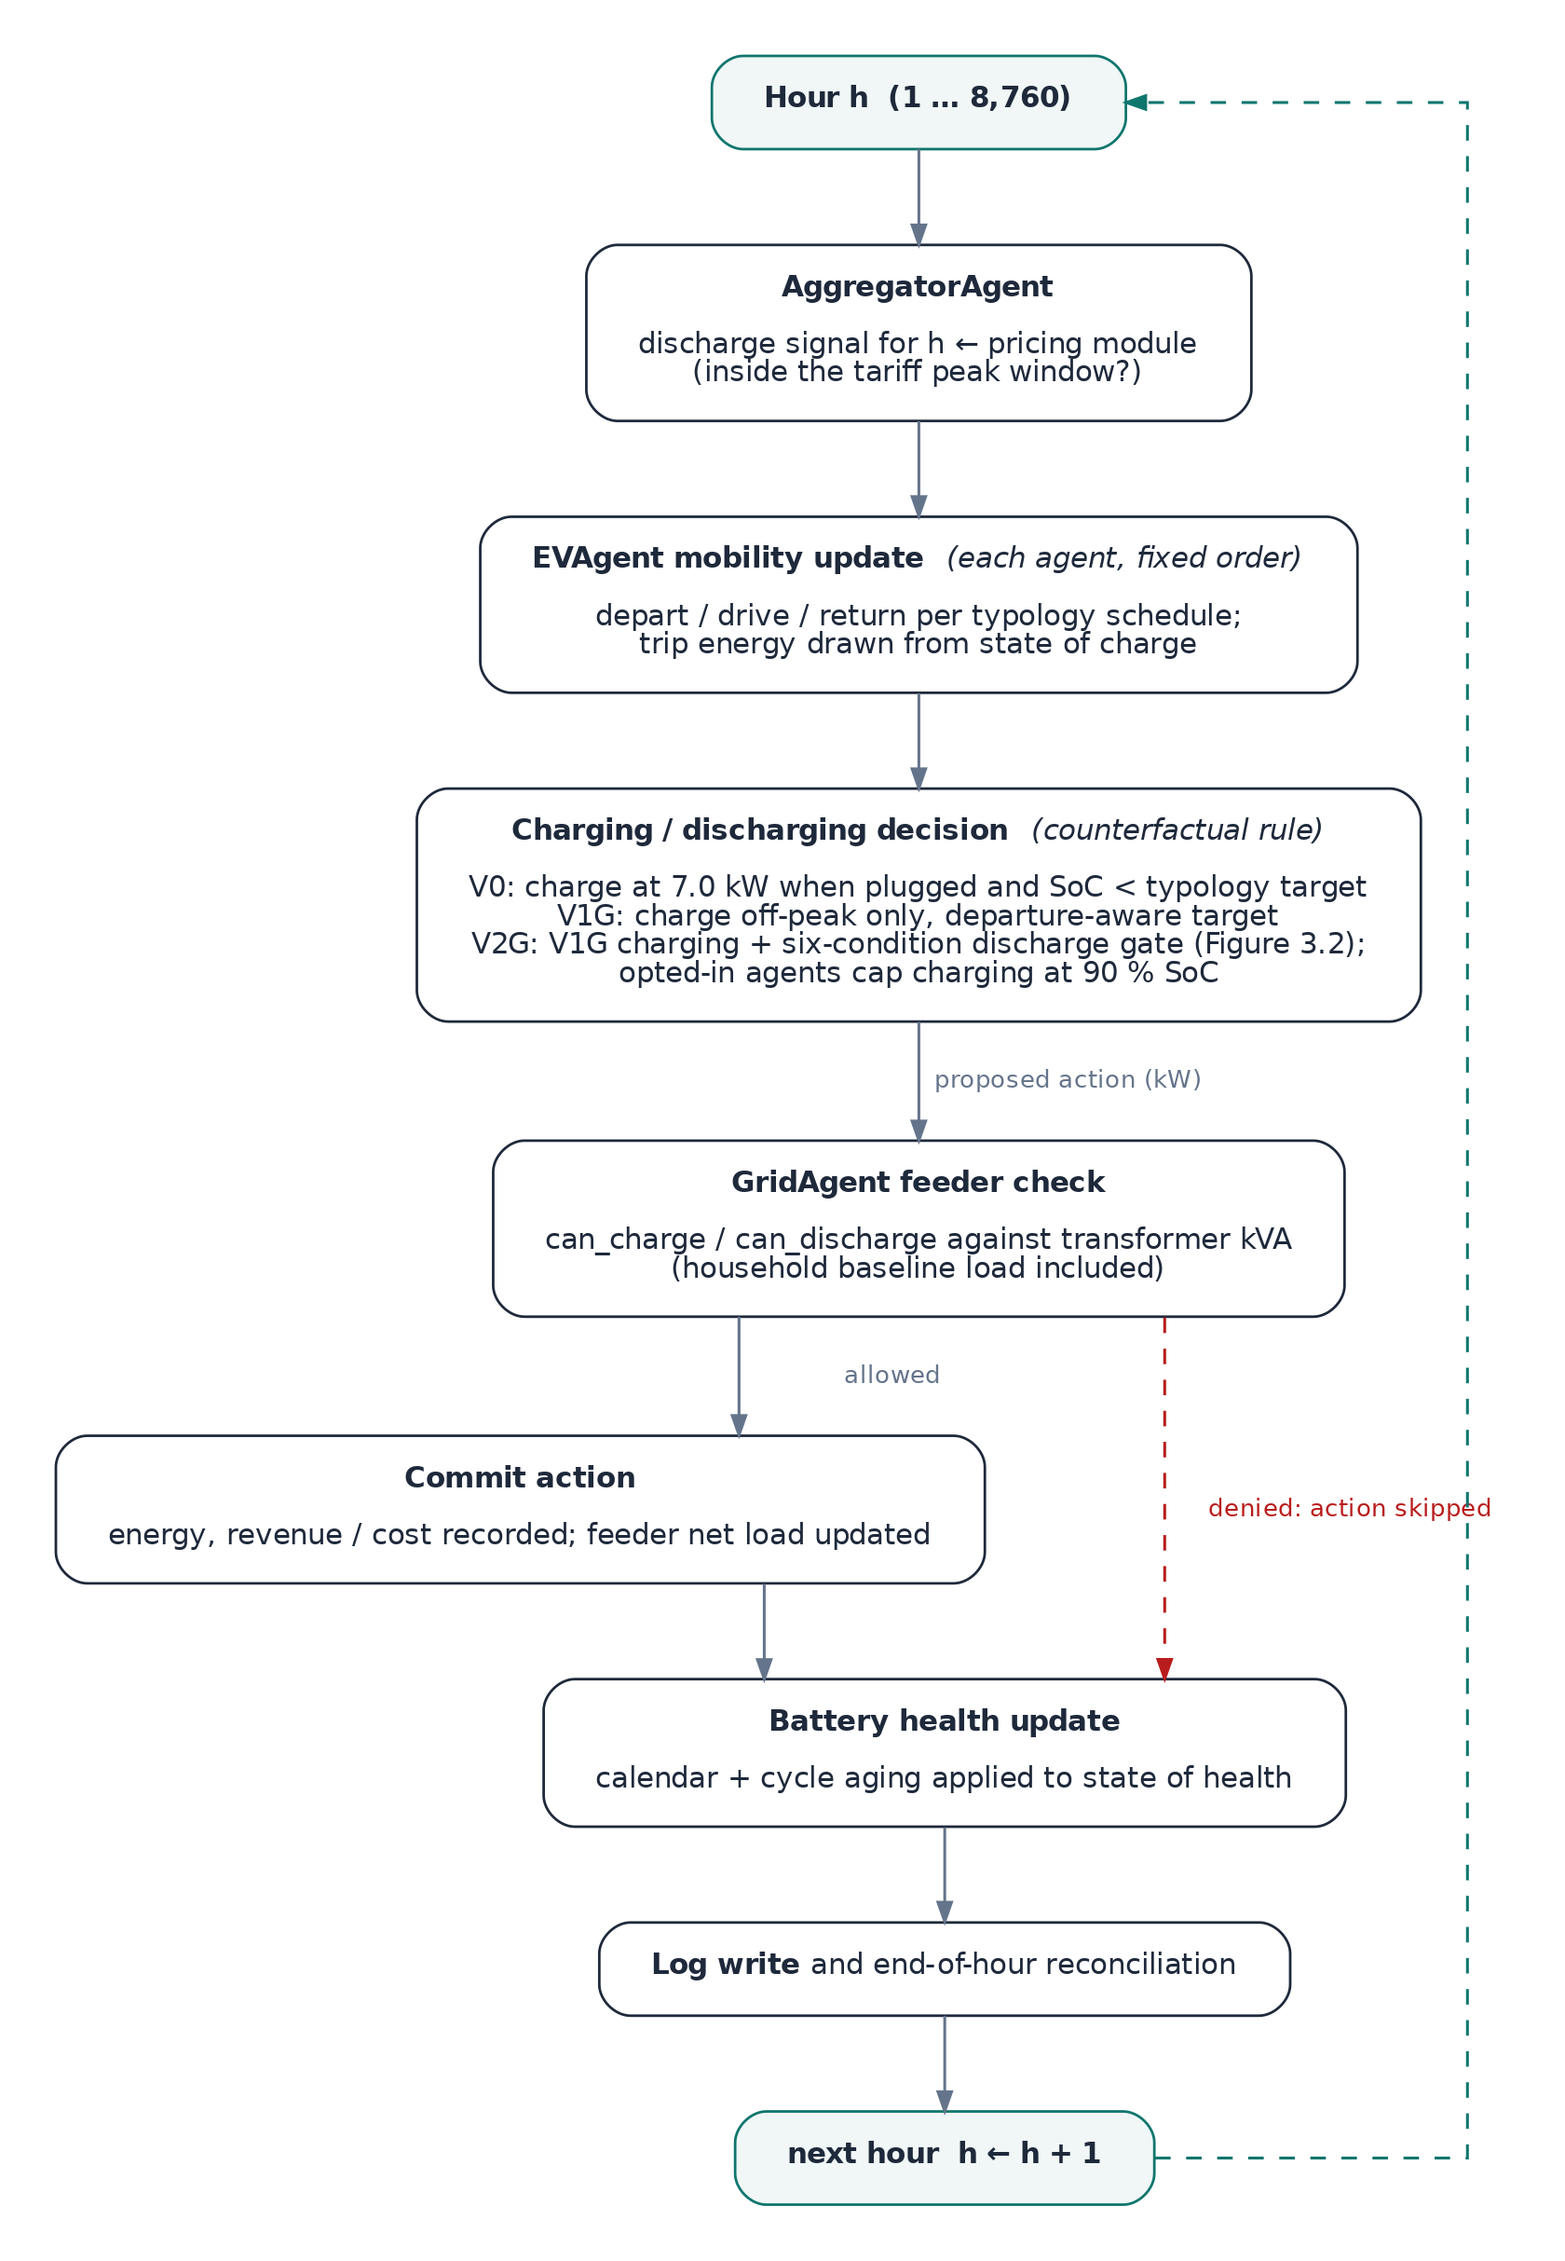
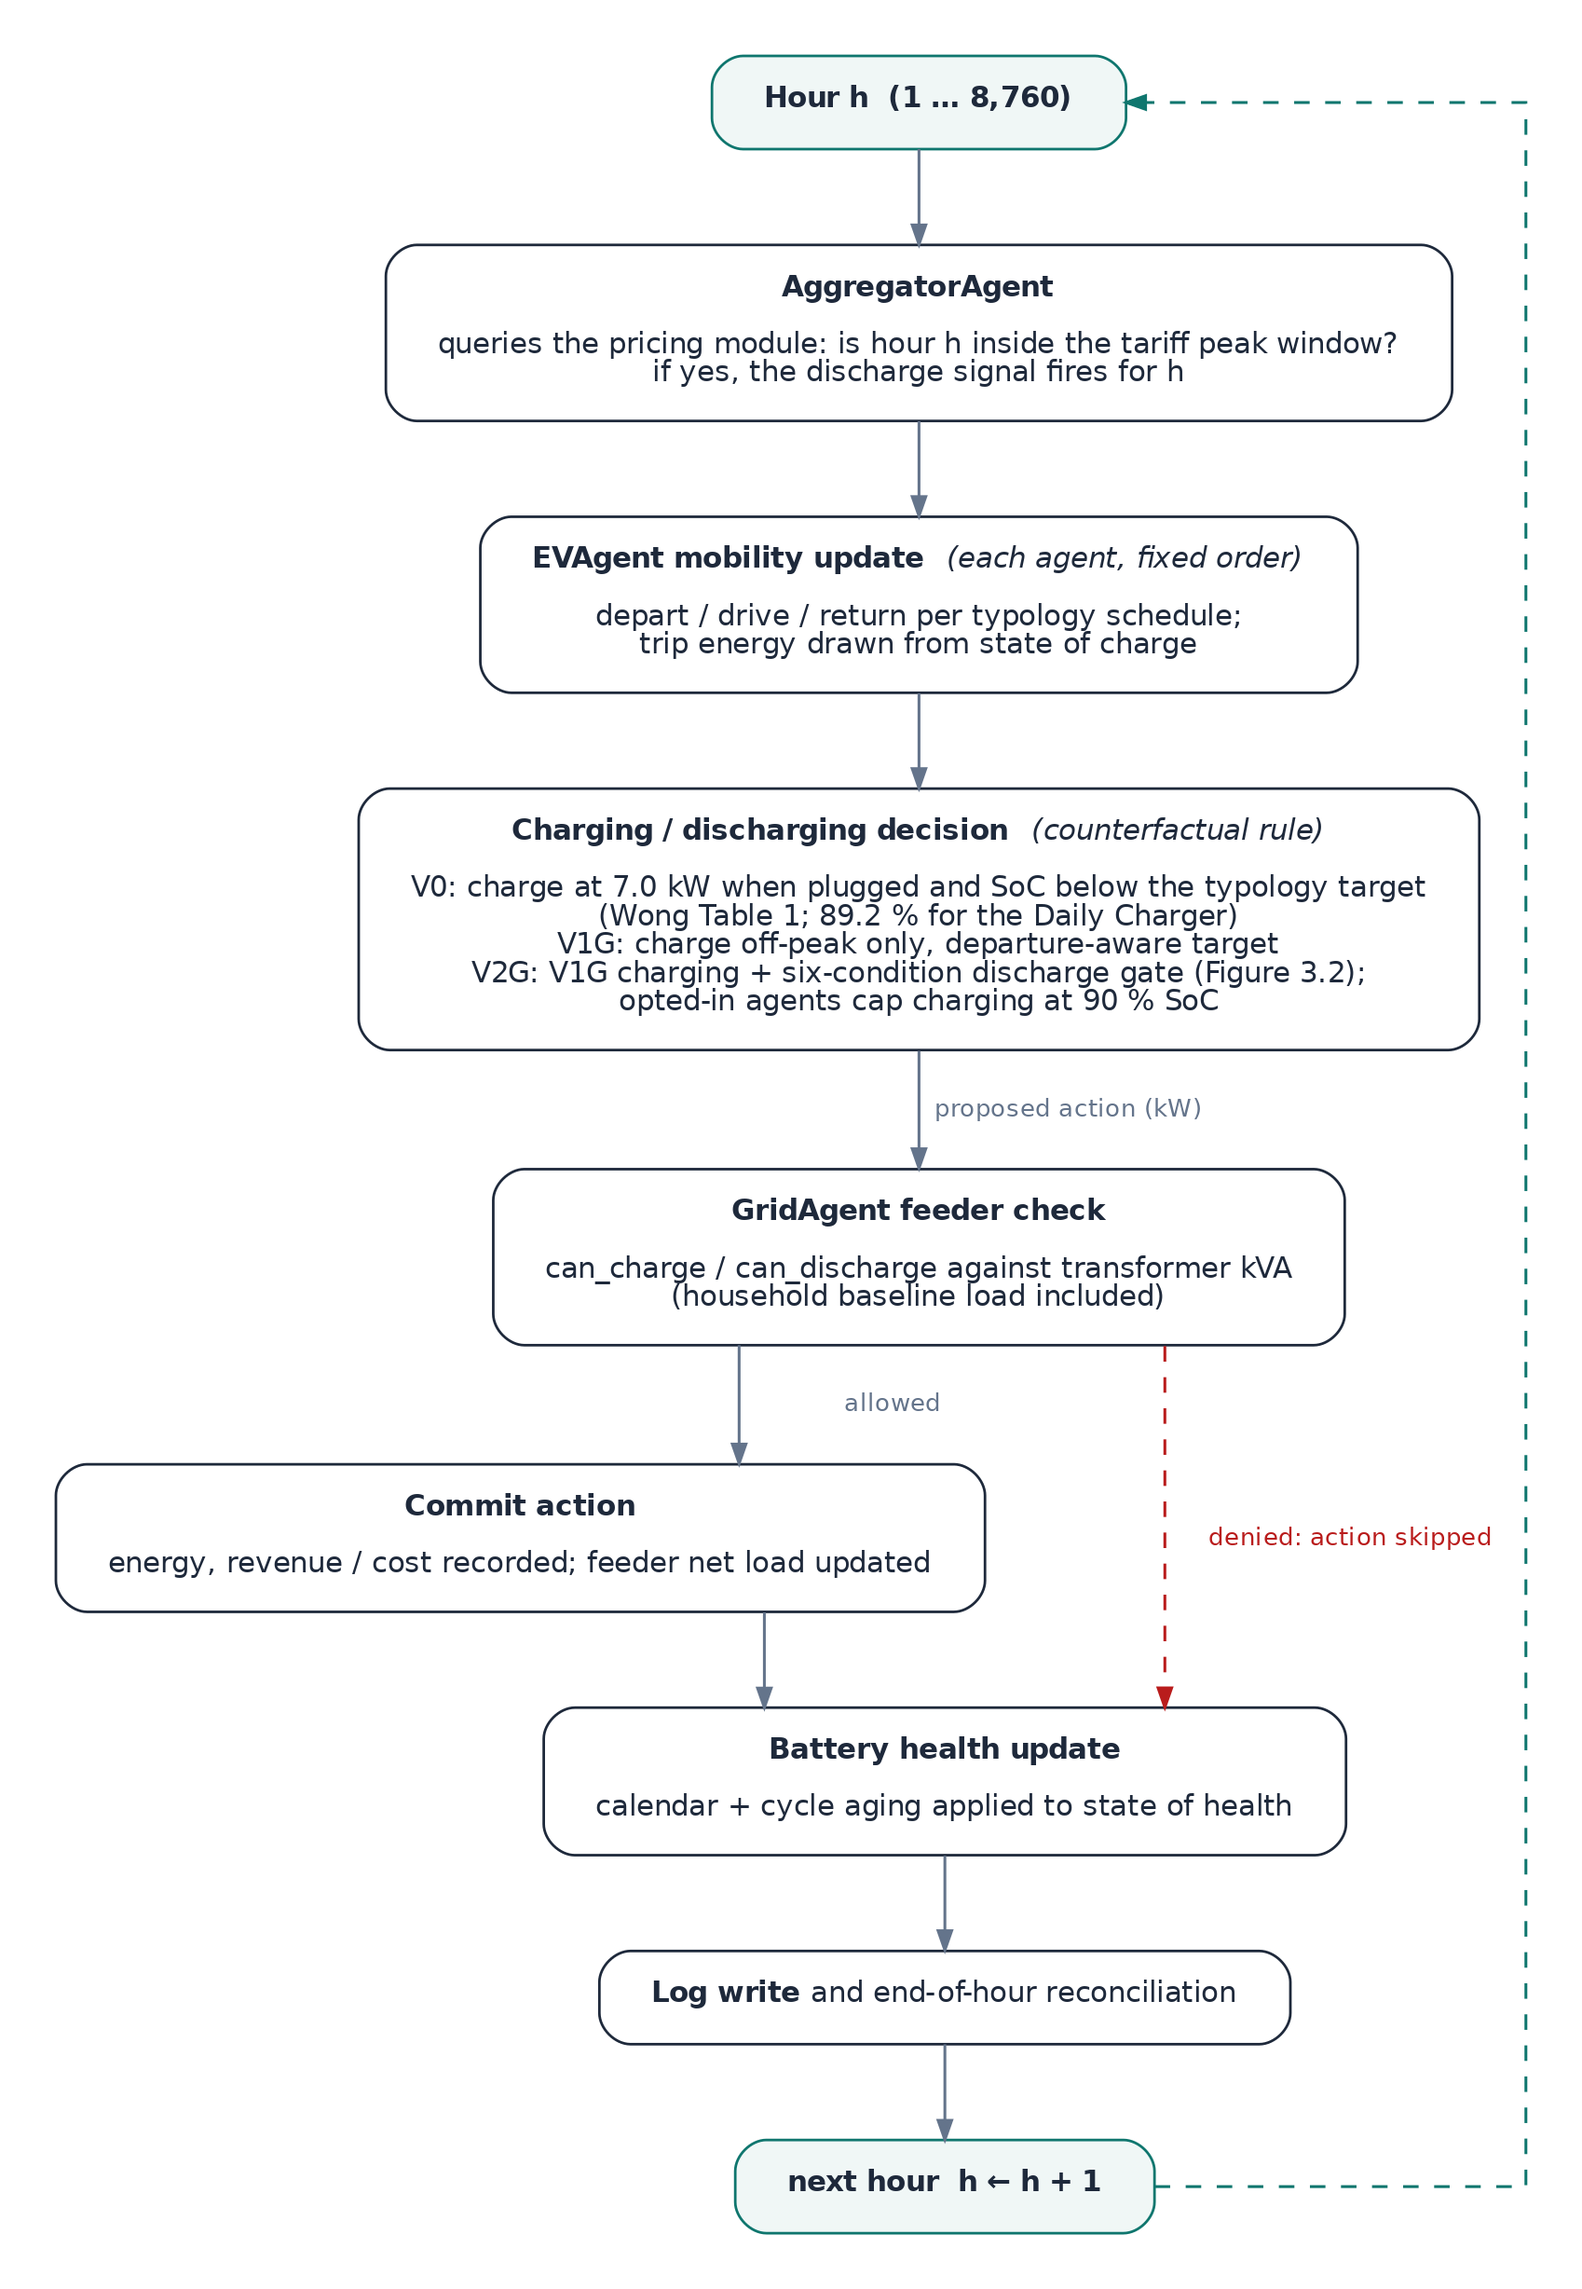
UK retail moved to symmetric NET basis + review-round figure set  - UK Power Pack revenue now nets the 7p Go recharge at RTE 0.9025   (same basis as Israel): DC £205/yr, retail payback ~18y beyond   battery life; Sciurus aggregation is the only viable UK route - w11c UK panel was plotting Sciurus un

diff --git a/src/plot_w13d_sensitivity_pairs.py b/src/plot_w13d_sensitivity_pairs.py
@@ -1,0 +1,145 @@
+"""Sensitivity figures restructured as matched two-panel pairs (draft-1 review).
+
+Produces:
+  w13d_feeder_envelope.png   Fig 4.8  - feeder worst-case envelope (single)
+  w13d_pair_paybacks.png     Fig 4.9a - CAPEX + UK export rate (Y: years)
+  w13d_pair_revenue.png      Fig 4.9b - TAOZ spread + SoC floor (Y: NET NIS/yr)
+  w13d_pair_behaviour.png    Fig 4.9c - plug-in + return hour (Y: kWh/yr)
+  w13d_pair_dd_gamma.png     Fig 4.9d - drive-days (kWh) + gamma (aggregator NIS)
+
+TAOZ panel converted to NET (same basis as all headline figures):
+kWh = 4,820 / 6,220 constant across the ratio sweep (dispatch is
+window/headroom-limited); peak = 0.528 x ratio; NET = kWh x (peak -
+0.528/0.9025).  SoC floor panel: sweep_w13b_soc_floor.py, 3-seed avg.
+Gamma panel: aggregator 25 % share of the NET pool per capable EV
+(previously the right panel of the aggregator unit-economics figure).
+
+Run:  python -m src.plot_w13d_sensitivity_pairs
+"""
+
+from pathlib import Path
+
+import matplotlib.pyplot as plt
+import numpy as np
+
+from src.plot_style import apply_style, PALETTE
+apply_style()
+
+from src.plot_w12t_sensitivity_split import (
+    panel_capex, panel_uk_rate, panel_plugin, panel_return_home,
+    panel_drive_days, panel_grid,
+)
+
+OUT = Path(__file__).resolve().parent.parent / "outputs"
+
+TEAL, BLUE, RED, GREY = (PALETTE["israel"], PALETTE["uk"],
+                         PALETTE["cost"], PALETTE["neutral"])
+
+NET_M = 1.6895 - 0.528 / 0.9025   # NIS per dispatched kWh at current TAOZ
+
+
+def panel_taoz_net(ax):
+    # kWh constant across the ratio sweep (window/headroom-limited);
+    # peak = 0.528 * ratio, off-peak fixed; NET = kwh * (peak - 0.528/RTE).
+    ratios = np.array([2.0, 3.2, 4.5, 6.0])
+    peaks = 0.528 * ratios
+    dc = 4820 * (peaks - 0.528 / 0.9025)
+    bev = 6220 * (peaks - 0.528 / 0.9025)
+    x = np.arange(len(ratios)); w = 0.35
+    ax.bar(x - w/2, dc, w, color=TEAL, label="Daily Charger", edgecolor="white")
+    ax.bar(x + w/2, bev, w, color=BLUE, label="BEV 2nd Vehicle", edgecolor="white")
+    for i in range(len(ratios)):
+        ax.text(i - w/2, dc[i] + 250, f"{dc[i]:,.0f}", ha="center", fontsize=8, fontweight="bold")
+        ax.text(i + w/2, bev[i] + 250, f"{bev[i]:,.0f}", ha="center", fontsize=8, fontweight="bold")
+    ax.set_xticks(x)
+    ax.set_xticklabels([f"{r:.1f}x" + ("\n(current)" if r == 3.2 else "")
+                        for r in ratios], fontsize=9)
+    ax.set_xlabel("TAOZ peak / off-peak ratio", fontsize=10)
+    ax.set_ylabel("Annual NET V2G revenue (NIS / opted-in EV)", fontsize=10)
+    ax.set_title("(3) Israel TAOZ spread (NET basis)",
+                 fontsize=11, fontweight="bold")
+    ax.legend(fontsize=8, loc="upper left")
+    ax.grid(True, axis="y", alpha=0.3)
+
+
+def panel_floor(ax):
+    # sweep_w13b_soc_floor.py, 3-seed averages, 90 % cap, per-opted-in.
+    floors = np.array([40, 45, 50, 55, 60])
+    dc_kwh = np.array([6409, 5686, 4919, 4145, 3345])
+    bev_kwh = np.array([7840, 7029, 6259, 5431, 4651])
+    dc, bev = dc_kwh * NET_M, bev_kwh * NET_M
+    ax.plot(floors, dc, "-o", color=TEAL, linewidth=2, markersize=7,
+            label="Daily Charger")
+    ax.plot(floors, bev, "-s", color=BLUE, linewidth=2, markersize=7,
+            label="BEV 2nd Vehicle")
+    for f, v in zip(floors, dc):
+        ax.text(f, v - 450, f"{v:,.0f}", ha="center", fontsize=8,
+                fontweight="bold", color=TEAL)
+    for f, v in zip(floors, bev):
+        ax.text(f, v + 280, f"{v:,.0f}", ha="center", fontsize=8,
+                fontweight="bold", color=BLUE)
+    ax.axvline(50, color=RED, linestyle=":", linewidth=1,
+               label="contractual floor 50 %")
+    ax.set_xlabel("V2G SoC floor (%)", fontsize=10)
+    ax.set_ylabel("Annual NET V2G revenue (NIS / opted-in EV)", fontsize=10)
+    ax.set_title("(4) SoC floor sweep (3-seed avg, 90 % cap)",
+                 fontsize=11, fontweight="bold")
+    ax.set_xticks(floors)
+    ax.set_ylim(2900, 9400)
+    ax.legend(fontsize=8, loc="upper right")
+    ax.grid(True, alpha=0.3)
+
+
+def panel_gamma_aggregator(ax):
+    # Aggregator 25 % share of the NET pool, per V2G-CAPABLE EV,
+    # at three gamma scenarios (0.30 / 0.50 / 0.70).
+    # Pool per active EV: Israel mean(5,323, 6,870) = 6,096 NIS;
+    # UK Sciurus 725 GBP -> NIS.  Per-capable = pool * 0.25 * gamma.
+    gammas = np.array([0.30, 0.50, 0.70])
+    il_pool, uk_pool = 6096.0, 725.0 * 4.7
+    il = il_pool * 0.25 * gammas
+    uk = uk_pool * 0.25 * gammas
+    x = np.arange(len(gammas)); w = 0.35
+    ax.bar(x - w/2, il, w, color=TEAL, label="Israel (NIS / capable EV)",
+           edgecolor="white")
+    ax.bar(x + w/2, uk, w, color=BLUE, label="UK Sciurus (NIS-equiv / capable EV)",
+           edgecolor="white")
+    for i in range(len(gammas)):
+        ax.text(i - w/2, il[i] + 15, f"{il[i]:,.0f}", ha="center", fontsize=8, fontweight="bold")
+        ax.text(i + w/2, uk[i] + 15, f"{uk[i]:,.0f}", ha="center", fontsize=8, fontweight="bold")
+    ax.set_xticks(x)
+    ax.set_xticklabels([f"low\n{g:.2f}" if g == .3 else
+                        f"medium\n{g:.2f}" if g == .5 else f"high\n{g:.2f}"
+                        for g in gammas], fontsize=9)
+    ax.set_xlabel("gamma (SEM opt-in share of capable EVs)", fontsize=10)
+    ax.set_ylabel("Annual aggregator revenue (NIS / capable EV)", fontsize=10)
+    ax.set_title("(8) Aggregator revenue vs gamma (25 % share of NET pool)",
+                 fontsize=11, fontweight="bold")
+    ax.legend(fontsize=8, loc="upper left")
+    ax.grid(True, axis="y", alpha=0.3)
+
+
+def pair(fname, left, right, figsize=(14, 5.6)):
+    fig, axes = plt.subplots(1, 2, figsize=figsize)
+    left(axes[0]); right(axes[1])
+    fig.tight_layout()
+    fig.savefig(OUT / fname, dpi=150, facecolor="white")
+    plt.close(fig)
+    print("Saved", OUT / fname)
+
+
+def single(fname, panel, figsize=(9.5, 6.4)):
+    fig, ax = plt.subplots(figsize=figsize)
+    panel(ax)
+    fig.tight_layout()
+    fig.savefig(OUT / fname, dpi=150, facecolor="white")
+    plt.close(fig)
+    print("Saved", OUT / fname)
+
+
+if __name__ == "__main__":
+    single("w13d_feeder_envelope.png", panel_grid)
+    pair("w13d_pair_paybacks.png", panel_capex, panel_uk_rate)
+    pair("w13d_pair_revenue.png", panel_taoz_net, panel_floor)
+    pair("w13d_pair_behaviour.png", panel_plugin, panel_return_home)
+    pair("w13d_pair_dd_gamma.png", panel_drive_days, panel_gamma_aggregator)

diff --git a/src/sweep_w13b_soc_floor.py b/src/sweep_w13b_soc_floor.py
@@ -1,0 +1,78 @@
+"""Real ABM sweep over the V2G contractual SoC floor.
+
+Uri/supervisor request (draft-1 review): revenue-per-car sensitivity to
+the 50 % floor.  Same harness as sweep_w13a: 120-agent fleet, Israel,
+V2G, 90 % max_soc cap, per-opted-in Daily Charger mean, multi-seed,
+resumable JSON store.
+
+Run:  python -m src.sweep_w13b_soc_floor <seed> [floors...]
+"""
+
+from __future__ import annotations
+
+import json
+import sys
+from pathlib import Path
+
+from src.agents import ev_agent as ev_module
+from src.agents.ev_agent import (
+    DAILY_CHARGER, PUBLIC_CHARGER, BEV_2ND_VEHICLE, THRESHOLD_CHARGER,
+    COUNTERFACTUAL_V2G,
+)
+from src.run_w9_fleet import run_year
+
+SWEEP_FLEET = {
+    DAILY_CHARGER: 31, PUBLIC_CHARGER: 23,
+    BEV_2ND_VEHICLE: 21, THRESHOLD_CHARGER: 45,
+}
+
+FLOORS = [0.40, 0.45, 0.50, 0.55, 0.60]
+
+OUT = Path(__file__).resolve().parent.parent / "outputs" / "w13b_soc_floor_sweep.json"
+
+
+def run_floor(floor: float, run_seed: int) -> dict:
+    orig = ev_module.V2G_MIN_SOC_FLOOR if hasattr(ev_module, "V2G_MIN_SOC_FLOOR") else None
+    # locate the floor constant
+    name = None
+    for cand in ("V2G_MIN_SOC_FLOOR", "V2G_SOC_FLOOR", "V2G_FLOOR", "MIN_V2G_SOC"):
+        if hasattr(ev_module, cand):
+            name = cand
+            break
+    assert name, "floor constant not found"
+    orig = getattr(ev_module, name)
+    setattr(ev_module, name, floor)
+    try:
+        out = run_year(country="Israel", counterfactual=COUNTERFACTUAL_V2G,
+                       shares=SWEEP_FLEET, verbose=False, run_seed=run_seed)
+    finally:
+        setattr(ev_module, name, orig)
+    r = {}
+    for typ in (DAILY_CHARGER, BEV_2ND_VEHICLE):
+        opt = [a.state.cumulative_v2g_discharge_kwh for a in out["agents"]
+               if a.typology == typ and a.state.v2g_opted_in]
+        r[typ] = sum(opt) / len(opt) if opt else 0.0
+    return {"floor": floor, "seed": run_seed,
+            "dc_optin": r[DAILY_CHARGER], "bev_optin": r[BEV_2ND_VEHICLE],
+            "wall_time_s": out["wall_time_s"]}
+
+
+def main() -> None:
+    seed = int(sys.argv[1])
+    floors = [float(x) for x in sys.argv[2:]] or FLOORS
+    store = {"results": []}
+    if OUT.exists():
+        store = json.load(open(OUT))
+    for f in floors:
+        if any(r["floor"] == f and r["seed"] == seed for r in store["results"]):
+            print(f"skip {f} seed {seed}")
+            continue
+        r = run_floor(f, seed)
+        store["results"].append(r)
+        json.dump(store, open(OUT, "w"), indent=1)
+        print(f"floor {f:.2f} seed {seed}: DC {r['dc_optin']:,.0f} kWh, "
+              f"BEV {r['bev_optin']:,.0f} kWh ({r['wall_time_s']:.1f}s)")
+
+
+if __name__ == "__main__":
+    main()

diff --git a/src/plot_w13c_model_diagrams.py b/src/plot_w13c_model_diagrams.py
@@ -34,9 +34,9 @@ digraph flow {{
 
   hour  [label=<<B>Hour h&nbsp; (1 &hellip; 8,760)</B>>,
          fillcolor="{TEALF}", color="{TEAL}"];
-  agg   [label=<<B>AggregatorAgent</B><BR/><BR/>discharge signal for h &larr; pricing module<BR/>(inside the tariff peak window?)>];
+  agg   [label=<<B>AggregatorAgent</B><BR/><BR/>queries the pricing module: is hour h inside the tariff peak window?<BR/>if yes, the discharge signal fires for h>];
   mob   [label=<<B>EVAgent mobility update</B> &nbsp;<I>(each agent, fixed order)</I><BR/><BR/>depart / drive / return per typology schedule;<BR/>trip energy drawn from state of charge>];
-  dec   [label=<<B>Charging / discharging decision</B> &nbsp;<I>(counterfactual rule)</I><BR/><BR/>V0: charge at 7.0 kW when plugged and SoC &lt; typology target<BR/>V1G: charge off-peak only, departure-aware target<BR/>V2G: V1G charging + six-condition discharge gate (Figure 3.2);<BR/>opted-in agents cap charging at 90 % SoC>];
+  dec   [label=<<B>Charging / discharging decision</B> &nbsp;<I>(counterfactual rule)</I><BR/><BR/>V0: charge at 7.0 kW when plugged and SoC below the typology target<BR/>(Wong Table 1; 89.2 % for the Daily Charger)<BR/>V1G: charge off-peak only, departure-aware target<BR/>V2G: V1G charging + six-condition discharge gate (Figure 3.2);<BR/>opted-in agents cap charging at 90 % SoC>];
   grid  [label=<<B>GridAgent feeder check</B><BR/><BR/>can_charge / can_discharge against transformer kVA<BR/>(household baseline load included)>];
   commit[label=<<B>Commit action</B><BR/><BR/>energy, revenue / cost recorded; feeder net load updated>];
   aging [label=<<B>Battery health update</B><BR/><BR/>calendar + cycle aging applied to state of health>];
